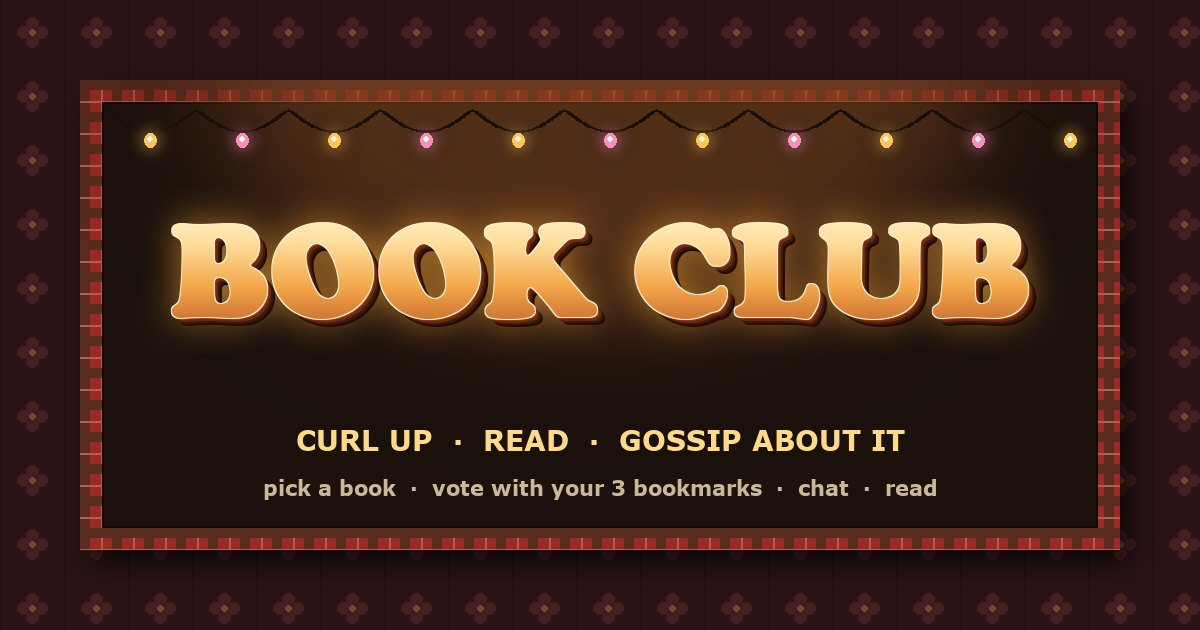
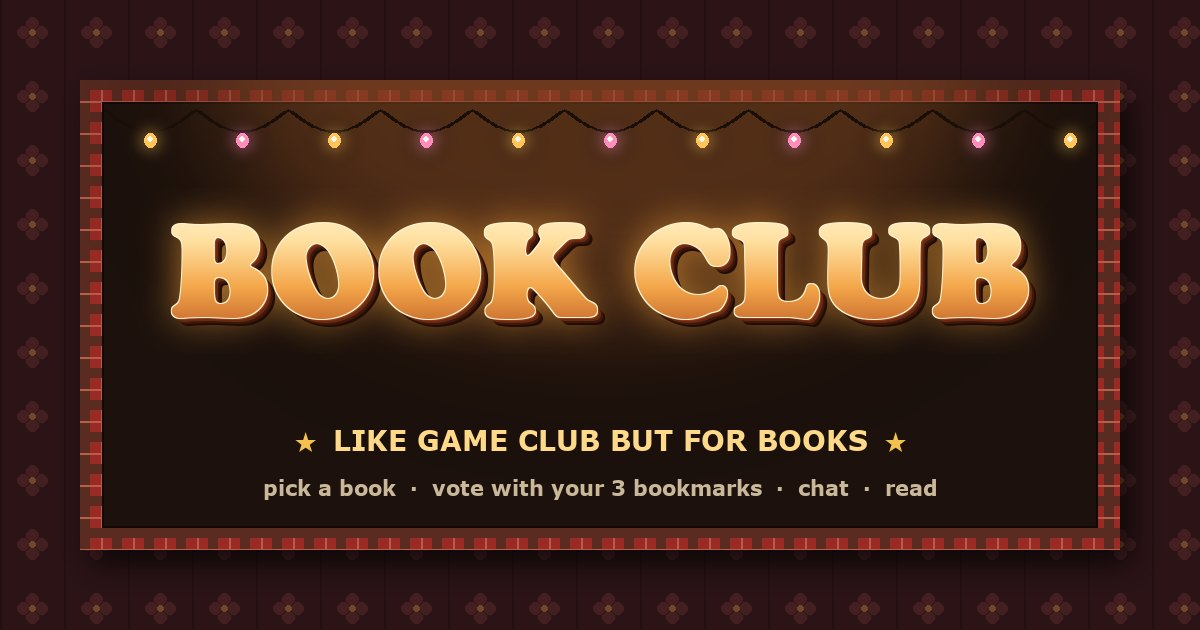
New tagline: like game club but for books

Changed region(s): [[0.2467, 0.6635, 0.7708, 0.7238]]

diff --git a/index.html b/index.html
@@ -35,7 +35,7 @@
   <header class="panel hdr">
     <div class="lights" aria-hidden="true"></div>
     <h1 class="logo">BOOK CLUB</h1>
-    <div class="tagline">☕ curl up · read · gossip about it ☕</div>
+    <div class="tagline">★ like game club but for books ★</div>
     <nav class="nav" id="nav"></nav>
   </header>
 

diff --git a/scripts/make_share_images.py b/scripts/make_share_images.py
@@ -125,9 +125,13 @@ def og():
     card.alpha_composite(logo, ((card_w - logo.width) // 2, 108))
     d = ImageDraw.Draw(card)
     f = ImageFont.truetype(VERDANA_B, 28)
-    tag = "CURL UP  ·  READ  ·  GOSSIP ABOUT IT"
-    tw = d.textlength(tag, font=f)
-    d.text(((card_w - tw) / 2, card_h - 128), tag, font=f, fill=(255, 217, 138))
+    star_f = ImageFont.truetype(SYM, 28)
+    tag = "LIKE GAME CLUB BUT FOR BOOKS"
+    tw, sw_ = d.textlength(tag, font=f), d.textlength("★", font=star_f)
+    x0, y0 = (card_w - tw - 2 * (sw_ + 16)) / 2, card_h - 128
+    d.text((x0, y0 - 1), "★", font=star_f, fill=(242, 193, 78))
+    d.text((x0 + sw_ + 16, y0), tag, font=f, fill=(255, 217, 138))
+    d.text((x0 + sw_ + 32 + tw, y0 - 1), "★", font=star_f, fill=(242, 193, 78))
     f2 = ImageFont.truetype(VERDANA_B, 21)
     sub = "pick a book  ·  vote with your 3 bookmarks  ·  chat  ·  read"
     sw = d.textlength(sub, font=f2)
